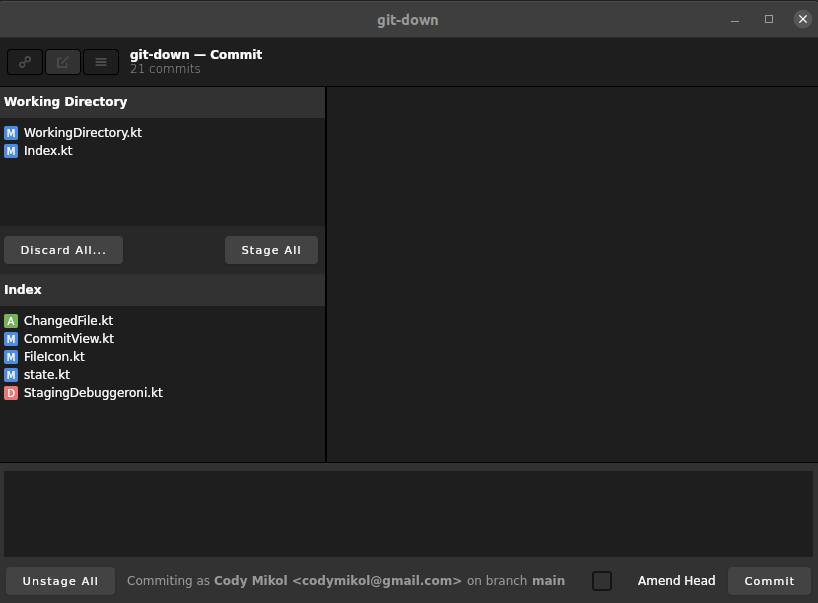
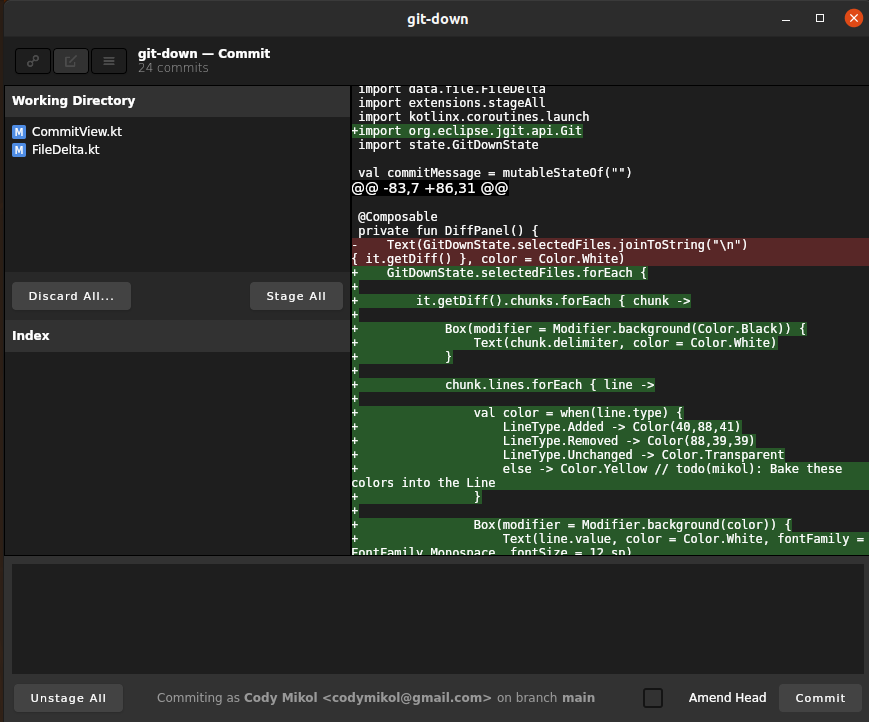
feat(commit): initial diff viewer
this adds the initial diff viewer
with highlighting on added / removed
files.

Fixes N/A

diff --git a/src/main/kotlin/views/CommitView.kt b/src/main/kotlin/views/CommitView.kt
@@ -17,6 +17,7 @@ import androidx.compose.ui.Modifier
 import androidx.compose.ui.graphics.Brush
 import androidx.compose.ui.graphics.Color
 import androidx.compose.ui.text.TextStyle
+import androidx.compose.ui.text.font.FontFamily
 import androidx.compose.ui.unit.dp
 import androidx.compose.ui.unit.sp
 import components.SlimButton
@@ -24,9 +25,11 @@ import components.Subheader
 import components.commit.ChangedFile
 import components.commit.CommitBottomToolbar
 import data.Colors
+import data.diff.LineType
 import data.file.FileDelta
 import extensions.stageAll
 import kotlinx.coroutines.launch
+import org.eclipse.jgit.api.Git
 import state.GitDownState
 
 val commitMessage = mutableStateOf("")
@@ -83,7 +86,31 @@ fun CommitView() {
 
 @Composable
 private fun DiffPanel() {
-    Text(GitDownState.selectedFiles.joinToString("\n") { it.getDiff() }, color = Color.White)
+    GitDownState.selectedFiles.forEach {
+
+        it.getDiff().chunks.forEach { chunk ->
+
+            Box(modifier = Modifier.background(Color.Black)) {
+                Text(chunk.delimiter, color = Color.White)
+            }
+
+            chunk.lines.forEach { line ->
+
+                val color = when(line.type) {
+                    LineType.Added -> Color(40,88,41)
+                    LineType.Removed -> Color(88,39,39)
+                    LineType.Unchanged -> Color.Transparent
+                    else -> Color.Yellow // todo(mikol): Bake these colors into the Line
+                }
+
+                Box(modifier = Modifier.background(color)) {
+                    Text(line.value, color = Color.White, fontFamily = FontFamily.Monospace, fontSize = 12.sp)
+                }
+            }
+
+        }
+
+    }
 }
 
 

diff --git a/src/main/kotlin/data/file/FileDelta.kt b/src/main/kotlin/data/file/FileDelta.kt
@@ -1,6 +1,7 @@
 package data.file
 
 import androidx.compose.ui.graphics.Color
+import data.diff.Diff
 import org.eclipse.jgit.treewalk.filter.PathFilter
 import state.GitDownState
 import java.io.ByteArrayOutputStream
@@ -33,7 +34,7 @@ interface FileDelta {
         .call()
         .also { println("Loading diff from the current index...") }
 
-    fun getDiff(): String {
+    fun getDiff(): Diff {
 
         val stream = ByteArrayOutputStream()
 
@@ -42,7 +43,7 @@ interface FileDelta {
             Status.WORKING_DIRECTORY -> loadWorkingDirectoryDiff(stream)
         }
 
-        return stream.toString()
+        return Diff.make(stream.toString())
 
     }
 

diff --git a/README.md b/README.md
@@ -43,7 +43,7 @@ Things that are working so far ( so you don't waste much time debating on whethe
 - [x] amend head functionality
 - [x] stage all functionality
 - [x] unstage all functionality 
-- [ ] diff viewer ( in general )
+- [x] diff viewer ( in general )
 - [ ] multi file diff
 - [ ] stage diff lines
 - [ ] unstage diff lines
